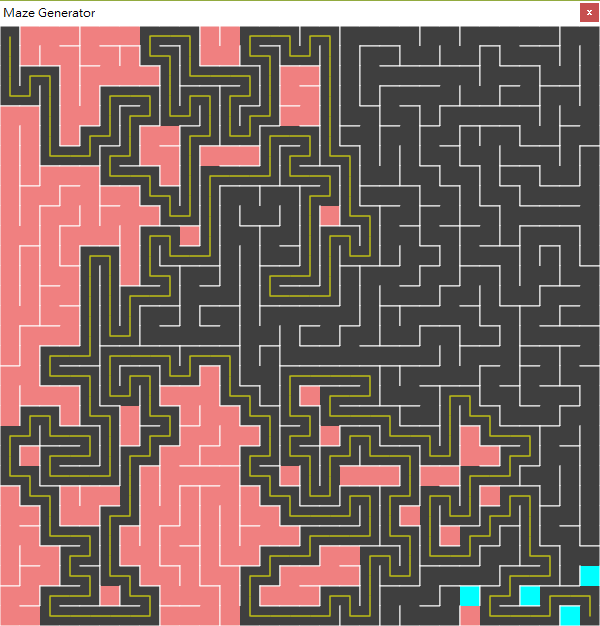
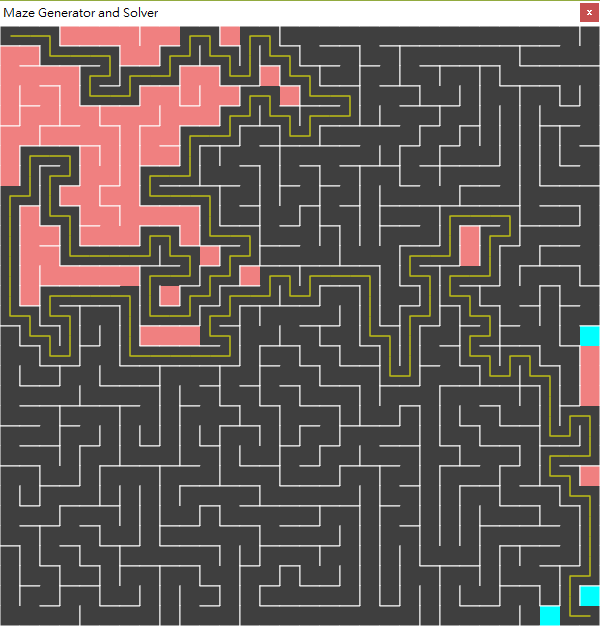
program title

diff --git a/src/application/Main.java b/src/application/Main.java
@@ -21,7 +21,7 @@ public class Main extends Application {
 		mazePane = new MazePane(width, height, cellSize);
 		
 		Scene scene = new Scene(mazePane, width, height);
-		primaryStage.setTitle("Maze Generator");
+		primaryStage.setTitle("Maze Generator and Solver");
 		primaryStage.setScene(scene);
 		primaryStage.setResizable(false);
 		primaryStage.initStyle(StageStyle.UTILITY);
